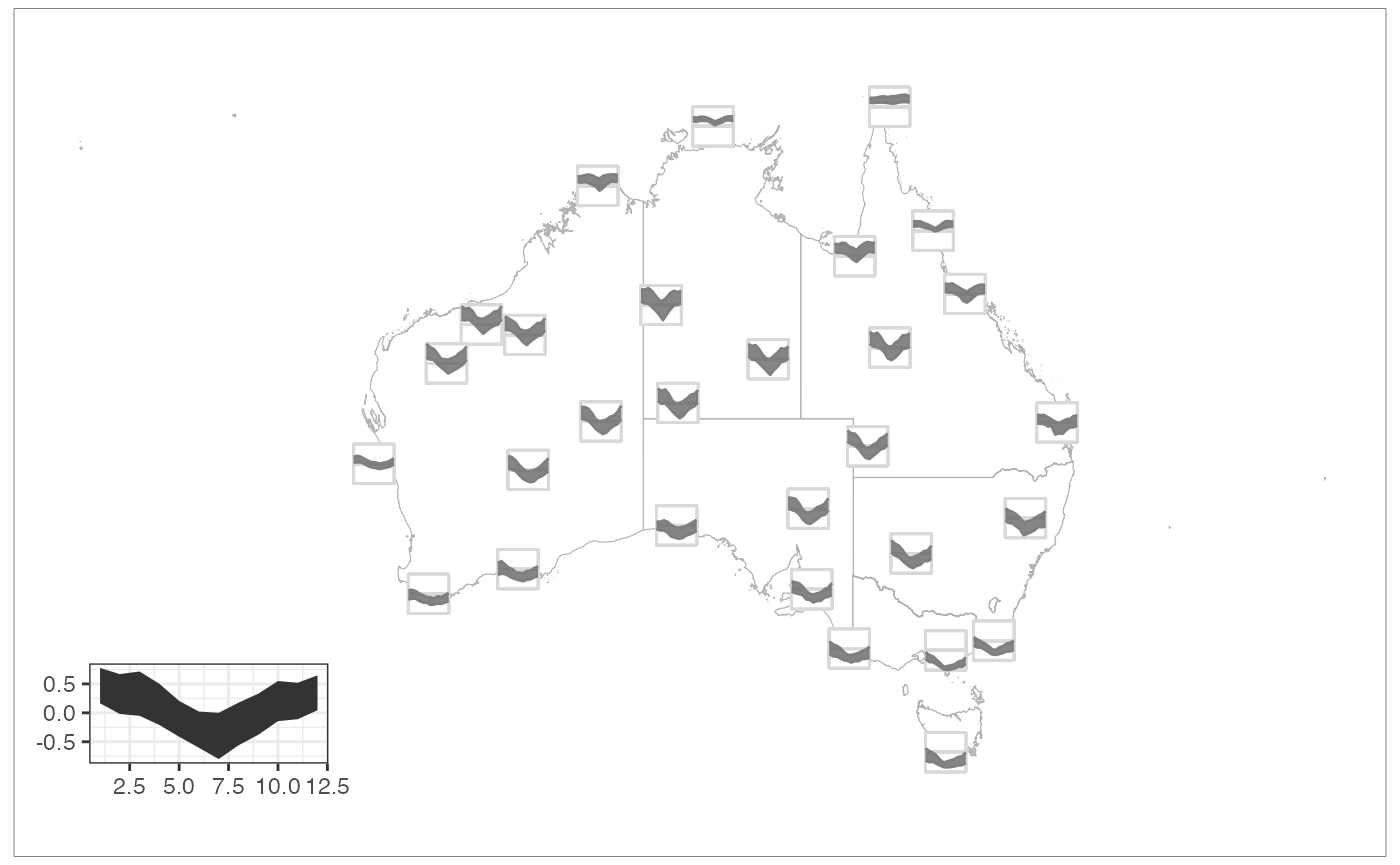
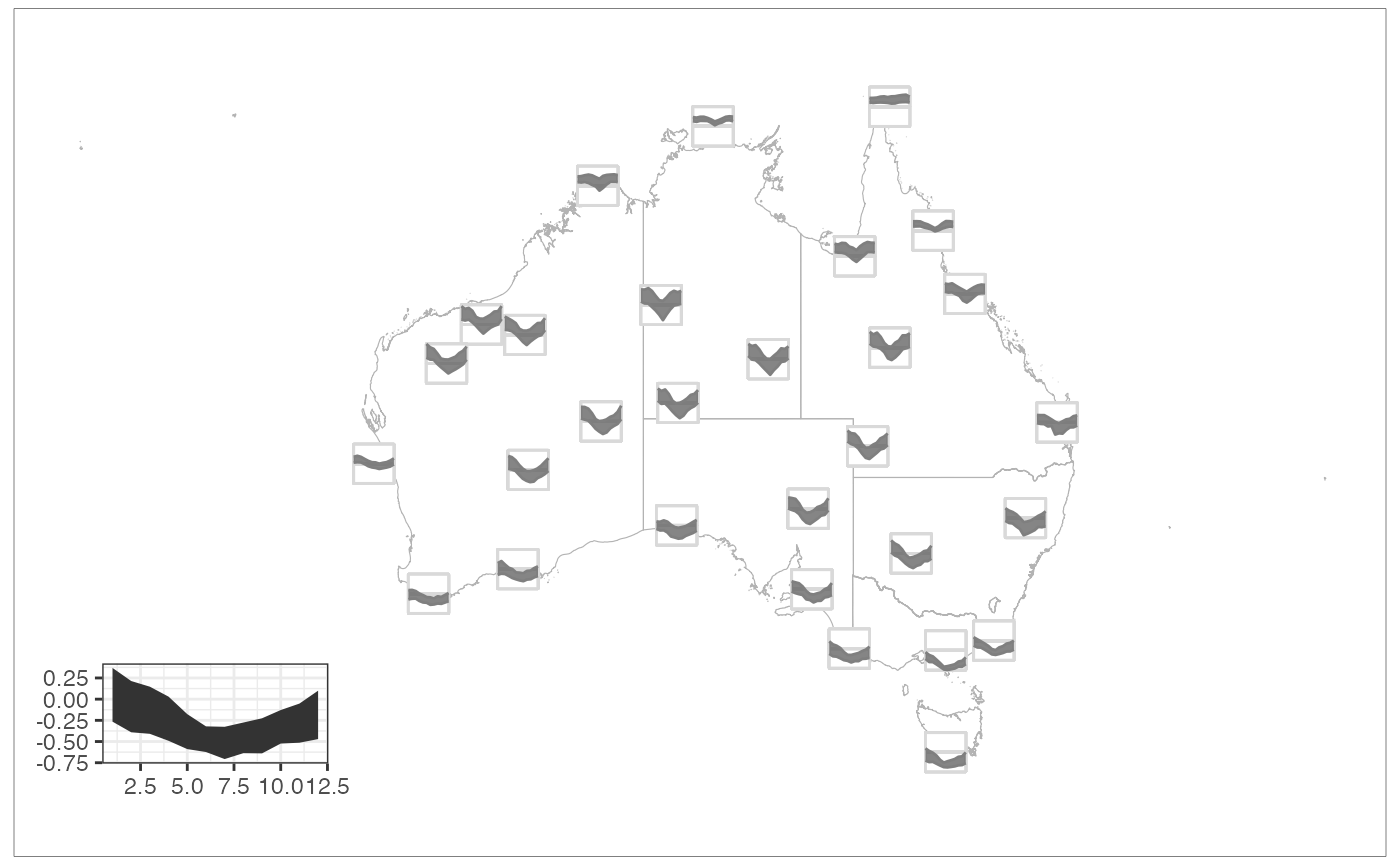
Update README examples

Changed region(s): [[0.0307, 0.7491, 0.2457, 0.9364]]

diff --git a/docs/index.html b/docs/index.html
@@ -67,27 +67,12 @@
 </h3>
 <p>ribbon provides ggplot2 extension to produce glyph plots with <code><a href="reference/geom_glyph_ribbon.html">geom_glyph_ribbon()</a></code> and <code><a href="reference/geom_glyph_segment.html">geom_glyph_segment()</a></code>.</p>
 <p>These functions create a ribbon or segment geometry designed to display glyphs based on the combination of <code>x_major</code> and <code>y_major</code>. For each <code>x_minor</code> value, <code><a href="reference/geom_glyph_ribbon.html">geom_glyph_ribbon()</a></code> displays a y interval defined by <code>ymin_minor</code> and <code>ymax_minor</code>. Meanwhile, <code><a href="reference/geom_glyph_segment.html">geom_glyph_segment()</a></code> draw a straight line between <code>y_minor</code> and <code>yend_minor</code> with respect to <code>x_minor</code>.</p>
-<div class="sourceCode" id="cb1"><pre class="downlit sourceCode r">
-<code class="sourceCode R"><span><span class="kw"><a href="https://rdrr.io/r/base/library.html" class="external-link">library</a></span><span class="op">(</span><span class="va">ribbon</span><span class="op">)</span></span>
-<span><span class="kw"><a href="https://rdrr.io/r/base/library.html" class="external-link">library</a></span><span class="op">(</span><span class="va"><a href="https://r-spatial.github.io/sf/" class="external-link">sf</a></span><span class="op">)</span></span>
-<span><span class="kw"><a href="https://rdrr.io/r/base/library.html" class="external-link">library</a></span><span class="op">(</span><span class="va"><a href="https://ggplot2.tidyverse.org" class="external-link">ggplot2</a></span><span class="op">)</span></span>
-<span></span>
-<span><span class="va">aus_temp</span> <span class="op">|&gt;</span></span>
-<span>  <span class="fu"><a href="https://ggplot2.tidyverse.org/reference/ggplot.html" class="external-link">ggplot</a></span><span class="op">(</span><span class="fu"><a href="https://ggplot2.tidyverse.org/reference/aes.html" class="external-link">aes</a></span><span class="op">(</span>x_major <span class="op">=</span> <span class="va">long</span>, y_major <span class="op">=</span> <span class="va">lat</span>,</span>
-<span>            x_minor <span class="op">=</span> <span class="va">month</span>, ymin_minor <span class="op">=</span> <span class="va">tmin</span>, ymax_minor <span class="op">=</span> <span class="va">tmax</span><span class="op">)</span><span class="op">)</span> <span class="op">+</span></span>
-<span>  <span class="fu"><a href="https://ggplot2.tidyverse.org/reference/ggsf.html" class="external-link">geom_sf</a></span><span class="op">(</span>data <span class="op">=</span> <span class="fu">ozmaps</span><span class="fu">::</span><span class="va"><a href="https://rdrr.io/pkg/ozmaps/man/abs-data.html" class="external-link">abs_ste</a></span>, fill <span class="op">=</span> <span class="st">"grey95"</span>,</span>
-<span>          color <span class="op">=</span> <span class="st">"white"</span>, inherit.aes <span class="op">=</span> <span class="cn">FALSE</span><span class="op">)</span> <span class="op">+</span></span>
-<span>  <span class="fu"><a href="reference/add_glyph_boxes.html">add_glyph_boxes</a></span><span class="op">(</span><span class="op">)</span> <span class="op">+</span></span>
-<span>  <span class="fu"><a href="reference/add_ref_lines.html">add_ref_lines</a></span><span class="op">(</span><span class="op">)</span> <span class="op">+</span></span>
-<span>  <span class="fu"><a href="reference/geom_glyph_ribbon.html">geom_glyph_ribbon</a></span><span class="op">(</span><span class="op">)</span> <span class="op">+</span></span>
-<span>  <span class="fu"><a href="https://ggplot2.tidyverse.org/reference/ggsf.html" class="external-link">coord_sf</a></span><span class="op">(</span>xlim <span class="op">=</span> <span class="fu"><a href="https://rdrr.io/r/base/c.html" class="external-link">c</a></span><span class="op">(</span><span class="fl">113</span>, <span class="fl">154</span><span class="op">)</span><span class="op">)</span> <span class="op">+</span></span>
-<span>  <span class="fu"><a href="reference/theme_glyph.html">theme_glyph</a></span><span class="op">(</span><span class="op">)</span></span></code></pre></div>
-<p><img src="docs/articles/Example_files/figure-html/"><!-- --></p>
+<p><a href="https://maliny12.github.io/ribbon/articles/Examples.html#overview" class="external-link"><img width="500" src="https://maliny12.github.io/ribbon/articles/Examples_files/figure-html/unnamed-chunk-2-1.png" alt="Global vs. Local Rescale"></a></p>
 </div>
 <div class="section level3">
 <h3 id="installation">Installation<a class="anchor" aria-label="anchor" href="#installation"></a>
 </h3>
-<div class="sourceCode" id="cb2"><pre class="downlit sourceCode r">
+<div class="sourceCode" id="cb1"><pre class="downlit sourceCode r">
 <code class="sourceCode R"><span><span class="co"># Download the development version from GitHub:</span></span>
 <span><span class="fu">devtools</span><span class="fu">::</span><span class="fu"><a href="https://remotes.r-lib.org/reference/install_github.html" class="external-link">install_github</a></span><span class="op">(</span><span class="st">"maliny12/ribbon"</span><span class="op">)</span></span></code></pre></div>
 </div>

diff --git a/docs/reference/add_glyph_boxes.html b/docs/reference/add_glyph_boxes.html
@@ -83,7 +83,7 @@ mapping.</p></dd>
 
 <dt>data</dt>
 <dd><p>The data to be displayed in this layer. If <code>NULL</code>, the default, the data is
-inherited from the plot data as specified in the call to <code><a href="https://ggplot2.tidyverse.org/reference/ggplot.html" class="external-link">ggplot()</a></code>.</p></dd>
+inherited from the plot data as specified in the call to <code>ggplot()</code>.</p></dd>
 
 
 <dt>stat</dt>
@@ -92,7 +92,7 @@ When using a <code>geom_*()</code> function to construct a layer, the <code>stat
 argument can be used the override the default coupling between geoms and
 stats. The <code>stat</code> argument accepts the following:</p><ul><li><p>A <code>Stat</code> ggproto subclass, for example <code>StatCount</code>.</p></li>
 <li><p>A string naming the stat. To give the stat as a string, strip the
-function name of the <code>stat_</code> prefix. For example, to use <code><a href="https://ggplot2.tidyverse.org/reference/geom_bar.html" class="external-link">stat_count()</a></code>,
+function name of the <code>stat_</code> prefix. For example, to use <code>stat_count()</code>,
 give the stat as <code>"count"</code>.</p></li>
 <li><p>For more information and other ways to specify the stat, see the
 <a href="https://ggplot2.tidyverse.org/reference/layer_stats.html" class="external-link">layer stat</a> documentation.</p></li>
@@ -102,11 +102,11 @@ give the stat as <code>"count"</code>.</p></li>
 <dt>position</dt>
 <dd><p>A position adjustment to use on the data for this layer. This
 can be used in various ways, including to prevent overplotting and
-improving the display. The <code>position</code> argument accepts the following:</p><ul><li><p>The result of calling a position function, such as <code><a href="https://ggplot2.tidyverse.org/reference/position_jitter.html" class="external-link">position_jitter()</a></code>.
+improving the display. The <code>position</code> argument accepts the following:</p><ul><li><p>The result of calling a position function, such as <code>position_jitter()</code>.
 This method allows for passing extra arguments to the position.</p></li>
 <li><p>A string naming the position adjustment. To give the position as a
 string, strip the function name of the <code>position_</code> prefix. For example,
-to use <code><a href="https://ggplot2.tidyverse.org/reference/position_jitter.html" class="external-link">position_jitter()</a></code>, give the position as <code>"jitter"</code>.</p></li>
+to use <code>position_jitter()</code>, give the position as <code>"jitter"</code>.</p></li>
 <li><p>For more information and other ways to specify the position, see the
 <a href="https://ggplot2.tidyverse.org/reference/layer_positions.html" class="external-link">layer position</a> documentation.</p></li>
 </ul></dd>

diff --git a/docs/reference/add_ref_lines.html b/docs/reference/add_ref_lines.html
@@ -75,7 +75,7 @@ mapping.</p></dd>
 
 <dt>data</dt>
 <dd><p>The data to be displayed in this layer. If <code>NULL</code>, the default, the data is
-inherited from the plot data as specified in the call to <code><a href="https://ggplot2.tidyverse.org/reference/ggplot.html" class="external-link">ggplot()</a></code>.</p></dd>
+inherited from the plot data as specified in the call to <code>ggplot()</code>.</p></dd>
 
 
 <dt>stat</dt>
@@ -84,7 +84,7 @@ When using a <code>geom_*()</code> function to construct a layer, the <code>stat
 argument can be used the override the default coupling between geoms and
 stats. The <code>stat</code> argument accepts the following:</p><ul><li><p>A <code>Stat</code> ggproto subclass, for example <code>StatCount</code>.</p></li>
 <li><p>A string naming the stat. To give the stat as a string, strip the
-function name of the <code>stat_</code> prefix. For example, to use <code><a href="https://ggplot2.tidyverse.org/reference/geom_bar.html" class="external-link">stat_count()</a></code>,
+function name of the <code>stat_</code> prefix. For example, to use <code>stat_count()</code>,
 give the stat as <code>"count"</code>.</p></li>
 <li><p>For more information and other ways to specify the stat, see the
 <a href="https://ggplot2.tidyverse.org/reference/layer_stats.html" class="external-link">layer stat</a> documentation.</p></li>
@@ -94,11 +94,11 @@ give the stat as <code>"count"</code>.</p></li>
 <dt>position</dt>
 <dd><p>A position adjustment to use on the data for this layer. This
 can be used in various ways, including to prevent overplotting and
-improving the display. The <code>position</code> argument accepts the following:</p><ul><li><p>The result of calling a position function, such as <code><a href="https://ggplot2.tidyverse.org/reference/position_jitter.html" class="external-link">position_jitter()</a></code>.
+improving the display. The <code>position</code> argument accepts the following:</p><ul><li><p>The result of calling a position function, such as <code>position_jitter()</code>.
 This method allows for passing extra arguments to the position.</p></li>
 <li><p>A string naming the position adjustment. To give the position as a
 string, strip the function name of the <code>position_</code> prefix. For example,
-to use <code><a href="https://ggplot2.tidyverse.org/reference/position_jitter.html" class="external-link">position_jitter()</a></code>, give the position as <code>"jitter"</code>.</p></li>
+to use <code>position_jitter()</code>, give the position as <code>"jitter"</code>.</p></li>
 <li><p>For more information and other ways to specify the position, see the
 <a href="https://ggplot2.tidyverse.org/reference/layer_positions.html" class="external-link">layer position</a> documentation.</p></li>
 </ul></dd>

diff --git a/docs/reference/add_glyph_legend.html b/docs/reference/add_glyph_legend.html
@@ -96,7 +96,7 @@ When using a <code>geom_*()</code> function to construct a layer, the <code>stat
 argument can be used the override the default coupling between geoms and
 stats. The <code>stat</code> argument accepts the following:</p><ul><li><p>A <code>Stat</code> ggproto subclass, for example <code>StatCount</code>.</p></li>
 <li><p>A string naming the stat. To give the stat as a string, strip the
-function name of the <code>stat_</code> prefix. For example, to use <code><a href="https://ggplot2.tidyverse.org/reference/geom_bar.html" class="external-link">stat_count()</a></code>,
+function name of the <code>stat_</code> prefix. For example, to use <code>stat_count()</code>,
 give the stat as <code>"count"</code>.</p></li>
 <li><p>For more information and other ways to specify the stat, see the
 <a href="https://ggplot2.tidyverse.org/reference/layer_stats.html" class="external-link">layer stat</a> documentation.</p></li>
@@ -106,11 +106,11 @@ give the stat as <code>"count"</code>.</p></li>
 <dt>position</dt>
 <dd><p>A position adjustment to use on the data for this layer. This
 can be used in various ways, including to prevent overplotting and
-improving the display. The <code>position</code> argument accepts the following:</p><ul><li><p>The result of calling a position function, such as <code><a href="https://ggplot2.tidyverse.org/reference/position_jitter.html" class="external-link">position_jitter()</a></code>.
+improving the display. The <code>position</code> argument accepts the following:</p><ul><li><p>The result of calling a position function, such as <code>position_jitter()</code>.
 This method allows for passing extra arguments to the position.</p></li>
 <li><p>A string naming the position adjustment. To give the position as a
 string, strip the function name of the <code>position_</code> prefix. For example,
-to use <code><a href="https://ggplot2.tidyverse.org/reference/position_jitter.html" class="external-link">position_jitter()</a></code>, give the position as <code>"jitter"</code>.</p></li>
+to use <code>position_jitter()</code>, give the position as <code>"jitter"</code>.</p></li>
 <li><p>For more information and other ways to specify the position, see the
 <a href="https://ggplot2.tidyverse.org/reference/layer_positions.html" class="external-link">layer position</a> documentation.</p></li>
 </ul></dd>

diff --git a/README.md b/README.md
@@ -16,24 +16,7 @@ value, `geom_glyph_ribbon()` displays a y interval defined by
 `ymin_minor` and `ymax_minor`. Meanwhile, `geom_glyph_segment()` draw a straight
 line between `y_minor` and `yend_minor` with respect to `x_minor`.
  
-``` r
-library(ribbon)
-library(sf)
-library(ggplot2)
-
-aus_temp |>
-  ggplot(aes(x_major = long, y_major = lat,
-            x_minor = month, ymin_minor = tmin, ymax_minor = tmax)) +
-  geom_sf(data = ozmaps::abs_ste, fill = "grey95",
-          color = "white", inherit.aes = FALSE) +
-  add_glyph_boxes() +
-  add_ref_lines() +
-  geom_glyph_ribbon() +
-  coord_sf(xlim = c(113, 154)) +
-  theme_glyph()
-```
-
-![](docs/articles/Example_files/figure-html/)<!-- -->
+<a href="https://maliny12.github.io/ribbon/articles/Examples.html#overview"><img width="500" src="https://maliny12.github.io/ribbon/articles/Examples_files/figure-html/unnamed-chunk-2-1.png" alt="Global vs. Local Rescale"></img></a>
 
 
 ### Installation
